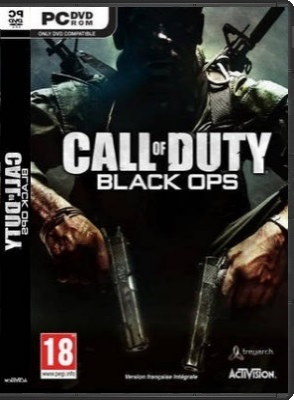
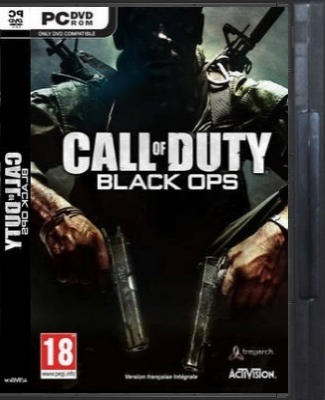
3d case left moves

diff --git a/3d case/case.html b/3d case/case.html
@@ -1,15 +1,15 @@
 <ul class="showcase">
-    <li class="one"></li>
-    <li class="two"></li>
-    <li class="three"></li>
-    <li class="four" id="four" onclick="move()"></li>
-    <li class="five stay" id="five" onclick="move()"></li>
+    <li class="one" id="one" onclick="move('one')"></li>
+    <li class="two" id="two" onclick="move('two')"></li>
+    <li class="three" id="three" onclick="move('three')"></li>
+    <li class="four" id="four" onclick="move('four')"></li>
+    <li class="five" id="five"></li>
 </ul>
 <ul class="showcaseTwo">
   <li class="six"></li>
     <li class="seven"></li>
     <li class="eight"></li>
-    <li class="nine" onclick="move()"></li>
+    <li class="nine"></li>
 </ul>
 
 <style type="text/css">
@@ -71,7 +71,7 @@ body {
   height: 400px;
   width: 258px;
   float: left;
-  border-radius: 8px 0 0px 8px;
+  border-radius: 0px 0 0px 0px;
   background-size: cover;
   background-position: -35px 0px;
   margin-left: -170px;
@@ -87,26 +87,14 @@ body {
   top: 0;
   left: 258px;
   background: inherit;
-  background-position: 0px 0px;
+  background-position: 30px 0px;
   transform: rotateY(90deg);
   transform-origin: left center;
   width: 30px;
   height: 100%;
 }
 .showcaseTwo li:hover {
-  transform: perspective(1000px) rotateY(45deg) translateY(-15px);
-}
-
-
-
-.move {
-  animation-name: select;
-  animation-duration: 0.6s;
-}
-
-.stay {
-  left: 150px;
-  transform: perspective(0px) rotateY(0deg) translateY(0px) !important;
+  transform: perspective(1000px) rotateY(-45deg) translateY(-15px);
 }
 
 .one {
@@ -133,39 +121,130 @@ body {
     background: url("black-case-template.png");
     transform-style: preserve-3d;
     transform: perspective(1000px) rotateY(45deg);
+    left: 150px;
+    transform: perspective(0px) rotateY(0deg) translateY(0px) !important;
 }
 .six {
     background: url("black-case-template.png");
     transform-style: preserve-3d;
     transform: perspective(1000px) rotateY(45deg);
+    z-index: 4;
 }
 .seven {
     background: url("black-case-template.png");
     transform-style: preserve-3d;
     transform: perspective(1000px) rotateY(45deg);
+    z-index: 3;
 }
 .eight {
     background: url("black-case-template.png");
     transform-style: preserve-3d;
     transform: perspective(1000px) rotateY(45deg);
+    z-index: 2;
 }
 .nine{
     background: url("black-case-template.png");
     transform-style: preserve-3d;
     transform: perspective(1000px) rotateY(45deg);
+    z-index: 1;
 }
-@keyframes select {
-    100% {transform: rotateY(0deg) translateY(0px) translateX(150px) translateZ(500px);}
+
+
+/*MOVIMIENTOS DE CASES*/
+
+/*CASE 1*/
+.move1 {
+  animation-name: select1;
+  animation-duration: 0.6s;
 }
+
+@keyframes select1 {
+    100% {transform: rotateY(0deg) translateY(0px) translateX(502px) translateZ(500px);}
+}
+
+.stay1 {
+  left: 502px;
+  transform: perspective(0px) rotateY(0deg) translateY(0px) !important;
+}
+/*CASE 2*/
+.move2 {
+  animation-name: select2;
+  animation-duration: 0.6s;
+}
+
+@keyframes select2 {
+    100% {transform: rotateY(0deg) translateY(0px) translateX(414px) translateZ(500px);}
+}
+
+.stay2 {
+  left: 414px;
+  transform: perspective(0px) rotateY(0deg) translateY(0px) !important;
+}
+/*CASE 3*/
+.move3 {
+  animation-name: select3;
+  animation-duration: 0.6s;
+}
+
+@keyframes select3 {
+    100% {transform: rotateY(0deg) translateY(0px) translateX(326px) translateZ(500px);}
+}
+
+.stay3 {
+  left: 326px;
+  transform: perspective(0px) rotateY(0deg) translateY(0px) !important;
+}
+/*CASE 4*/
+.move4 {
+  animation-name: select4;
+  animation-duration: 0.6s;
+}
+
+@keyframes select4 {
+    100% {transform: rotateY(0deg) translateY(0px) translateX(238px) translateZ(500px);}
+}
+
+.stay4 {
+  left: 238px;
+  transform: perspective(0px) rotateY(0deg) translateY(0px) !important;
+}
+
 </style>
 
 
 <script type="text/javascript">
-  function move() {
-    document.getElementById("five").classList.add('move');
-    window.setTimeout(function(){
-      document.getElementById("five").classList.remove('move');
-      document.getElementById("five").classList.add('stay');
-    },550);
-  }
+
+  function move(string) {
+    switch (string) {
+      case 'one':
+        document.getElementById(string).classList.add('move1');
+        window.setTimeout(function(){
+          document.getElementById(string).classList.remove('move1');
+          document.getElementById(string).classList.add('stay1');
+        },550);
+      break;
+      case 'two':
+        document.getElementById(string).classList.add('move2');
+        window.setTimeout(function(){
+          document.getElementById(string).classList.remove('move2');
+          document.getElementById(string).classList.add('stay2');
+        },550);
+      break;
+      case 'three':
+        document.getElementById(string).classList.add('move3');
+        window.setTimeout(function(){
+          document.getElementById(string).classList.remove('move3');
+          document.getElementById(string).classList.add('stay3');
+        },550);
+      break;
+      case 'four':
+        document.getElementById(string).classList.add('move4');
+        window.setTimeout(function(){
+          document.getElementById(string).classList.remove('move4');
+          document.getElementById(string).classList.add('stay4');
+        },550);
+      break;
+    }
+  };
+
 </script>
